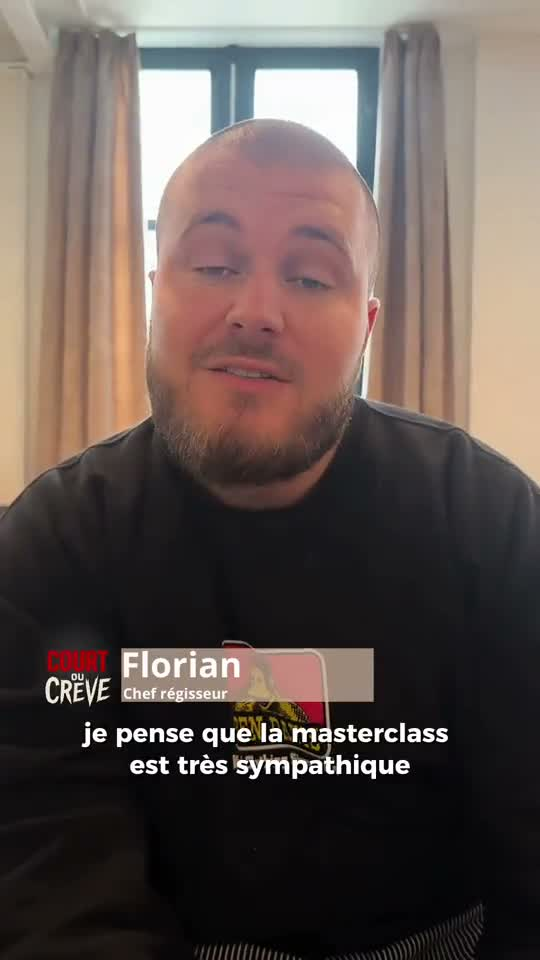
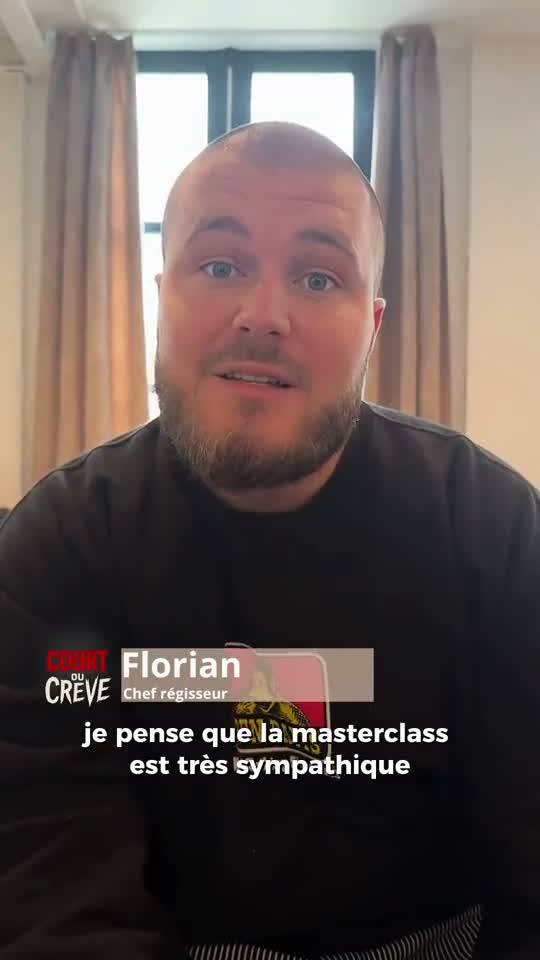
Améliorations visuelles
- Nouveau poster vidéo (Florian)
- Zoom sur photo groupe saison 1
- Play button plus visible sur mobile

diff --git a/index.html b/index.html
@@ -1936,14 +1936,15 @@
       }
 
       .play-btn {
-        width: 50px;
-        height: 50px;
+        width: 60px;
+        height: 60px;
+        box-shadow: 0 8px 30px rgba(185, 28, 28, 0.6);
       }
 
       .play-btn::after {
-        border-left-width: 12px;
-        border-top-width: 8px;
-        border-bottom-width: 8px;
+        border-left-width: 14px;
+        border-top-width: 9px;
+        border-bottom-width: 9px;
       }
 
       .testimonial blockquote {
@@ -2140,7 +2141,7 @@
             <img src="gallery/projo-1.jpg?v=10" alt="Public lors de la projection des courts-métrages au cinéma">
           </div>
           <div class="gallery-thumb">
-            <img src="gallery/groupe-saison1.jpg?v=10" alt="Tous les participants Court ou Crève Saison 1">
+            <img src="gallery/groupe-saison1.jpg?v=10" alt="Tous les participants Court ou Crève Saison 1" style="transform: scale(1.3);">
           </div>
         </div>
       </div>
